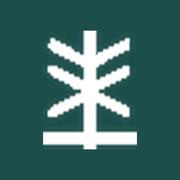
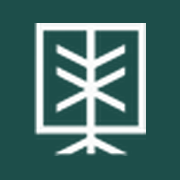
v0094-20261004: el icono del sistema pasa a ser el del sistema de finanzas

Changed region(s): [[0.1667, 0.1111, 0.8333, 0.8889]]

diff --git a/src/lib/version.ts b/src/lib/version.ts
@@ -1,3 +1,3 @@
 // Version vigente en produccion, formato vNNNN-AAAAMMDD. Sube en uno con cada
 // entrega a produccion; el historial completo esta en VERSIONES.md.
-export const VERSION = "v0093-20261004";
+export const VERSION = "v0094-20261004";

diff --git a/VERSIONES.md b/VERSIONES.md
@@ -5,10 +5,11 @@ produccion --un cambio de codigo o uno solo de base de datos-- y la fecha es
 la de esa entrega, en hora de Chile. Los cambios que quedan en el ambiente de
 pruebas no suben la version hasta que se aprueban.
 
-Version vigente: **v0093-20261004**
+Version vigente: **v0094-20261004**
 
 | Version | Fecha | Cambio | Referencia |
 |---|---|---|---|
+| v0094-20261004 | 04-10-2026 | El icono del sistema pasa a ser el mismo del sistema de finanzas, y se agrega favicon.ico | a62bc30 |
 | v0093-20261004 | 04-10-2026 | Oportunidades con etapa, proceso y razon de ganada o perdida, importables desde la misma planilla del CRM; ventas suma conversion mes a mes, cotizaciones en juego y barras de participacion; el tablero de leads dice por que se pierde y por que se gana | da47d12 |
 | v0092-20261004 | 04-10-2026 | Inicio en dos vistas: Mi gestión (agenda de dos semanas, leads por contactar y sin seguimiento, cotizaciones en juego) y Desempeño (ventas, leads y cumplimiento); gráfico de ventas suma lo facturado a lo cotizado y vendido; línea Proyecto y píldora de Paneles | cadd9a3 |
 | v0092-20261004 | 04-10-2026 | Inicio en dos vistas: Desempeno (entrada, con el mes en curso y lo facturado en el grafico) y Mi gestion (agenda de dos semanas, leads por contactar y sin seguimiento, cotizaciones en juego); desempeno de leads por mercado; la linea pasa a llamarse Proyecto; la vista de leads vuelve a filtrar por pais | cadd9a3 |
